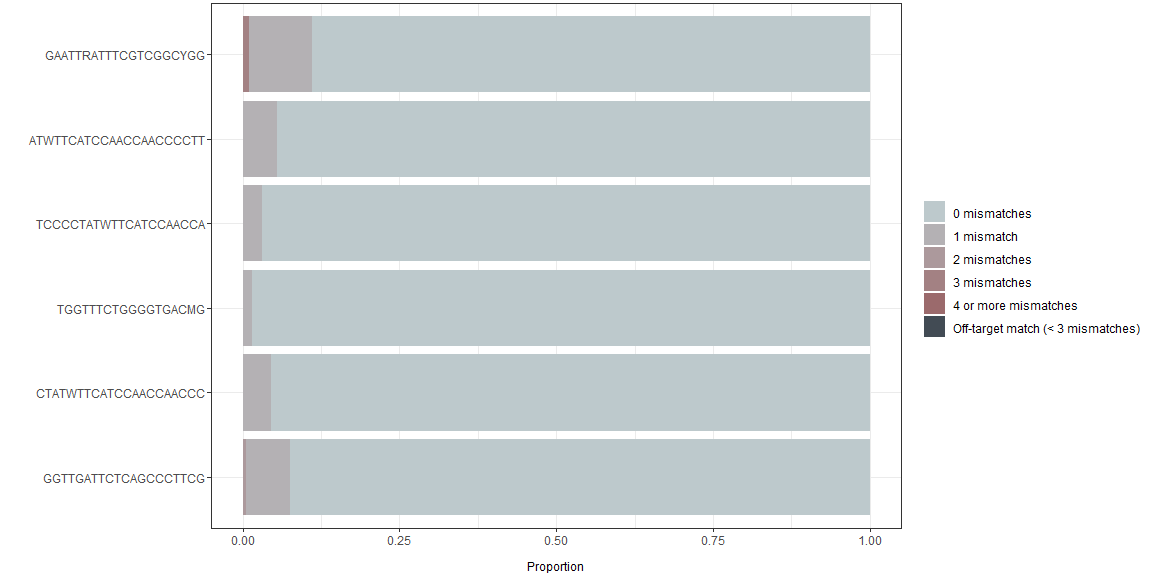
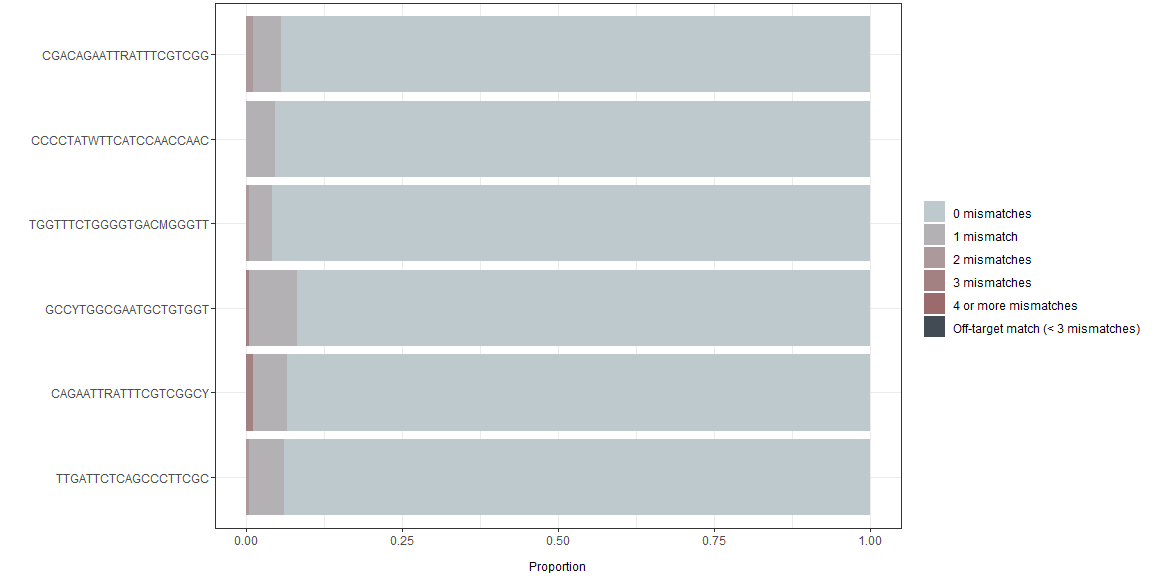
documentation

diff --git a/README.md b/README.md
@@ -9,10 +9,8 @@
 status](https://github.com/sofpn/rprimer/workflows/R-CMD-check/badge.svg)](https://github.com/sofpn/rprimer/actions)
 <!-- badges: end -->
 
-*This package is in development*
-
-rprimer provides tools for designing degenerate DNA oligos for sequence
-variable targets.
+rprimer provides tools for designing degenerate DNA oligos and PCR
+assays for sequence variable targets.
 
 ## Installation
 
@@ -174,12 +172,12 @@ Results:
 
 | iupacSequence          | perfectMatch | idPerfectMatch | oneMismatch | idOneMismatch | twoMismatches | idTwoMismatches | threeMismatches | idThreeMismatches | fourOrMoreMismatches | idFourOrMoreMismatches | offTargetMatch | idOffTargetMatch |
 |:-----------------------|-------------:|:---------------|------------:|:--------------|--------------:|:----------------|----------------:|:------------------|---------------------:|:-----------------------|---------------:|:-----------------|
-| GAATTRATTTCGTCGGCYGG   |         0.89 | M73218.1….     |        0.10 | AY575857….    |          0.00 |                 |            0.01 | MH410175….        |                    0 |                        |              0 |                  |
-| ATWTTCATCCAACCAACCCCTT |         0.94 | M73218.1….     |        0.06 | FJ457024….    |          0.00 |                 |            0.00 |                   |                    0 |                        |              0 |                  |
-| TCCCCTATWTTCATCCAACCA  |         0.97 | M73218.1….     |        0.03 | AY575857….    |          0.00 |                 |            0.00 |                   |                    0 |                        |              0 |                  |
-| TGGTTTCTGGGGTGACMG     |         0.98 | M73218.1….     |        0.02 | BD378055….    |          0.00 |                 |            0.00 |                   |                    0 |                        |              0 |                  |
-| CTATWTTCATCCAACCAACCC  |         0.95 | M73218.1….     |        0.05 | AY575857….    |          0.00 |                 |            0.00 |                   |                    0 |                        |              0 |                  |
-| GGTTGATTCTCAGCCCTTCG   |         0.92 | M73218.1….     |        0.07 | AY575857….    |          0.01 | AB222183.1      |            0.00 |                   |                    0 |                        |              0 |                  |
+| CGACAGAATTRATTTCGTCGG  |         0.94 | M73218.1….     |        0.05 | AY575857….    |          0.01 | MH410175….      |            0.00 |                   |                    0 |                        |              0 |                  |
+| CCCCTATWTTCATCCAACCAAC |         0.95 | M73218.1….     |        0.05 | AY575857….    |          0.00 |                 |            0.00 |                   |                    0 |                        |              0 |                  |
+| TGGTTTCTGGGGTGACMGGGTT |         0.96 | M73218.1….     |        0.04 | AB222183….    |          0.01 | JQ953665.1      |            0.00 |                   |                    0 |                        |              0 |                  |
+| GCCYTGGCGAATGCTGTGGT   |         0.92 | M73218.1….     |        0.08 | X99441.1….    |          0.00 |                 |            0.01 | KJ013415.1        |                    0 |                        |              0 |                  |
+| CAGAATTRATTTCGTCGGCY   |         0.93 | M73218.1….     |        0.06 | AY575857….    |          0.00 |                 |            0.01 | MH410175….        |                    0 |                        |              0 |                  |
+| TTGATTCTCAGCCCTTCGC    |         0.94 | M73218.1….     |        0.06 | JF443725….    |          0.01 | AB222183.1      |            0.00 |                   |                    0 |                        |              0 |                  |
 
 The match table can be visualized using `plotData()`:
 
